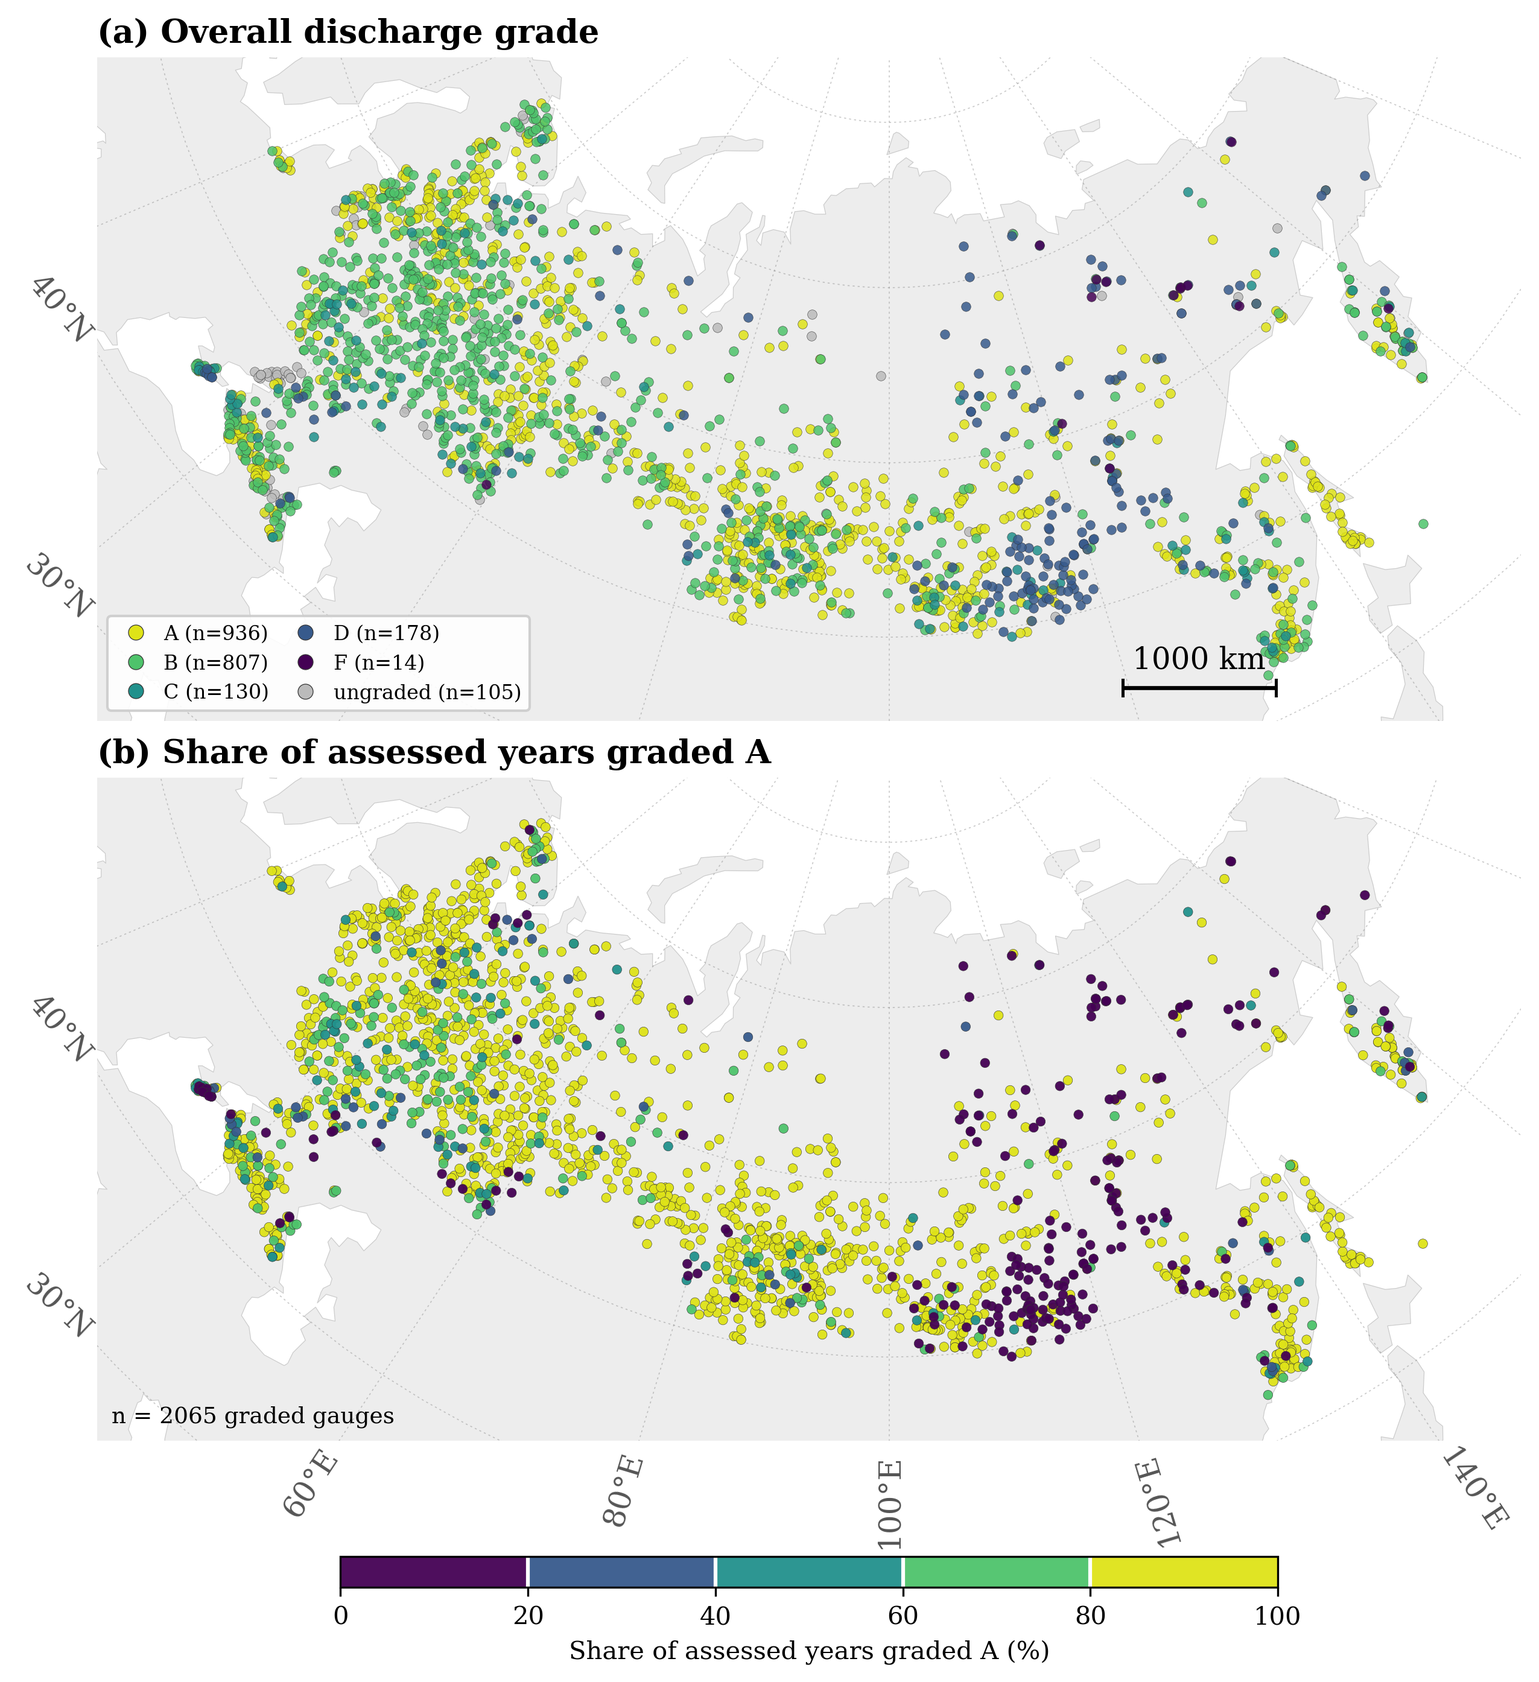
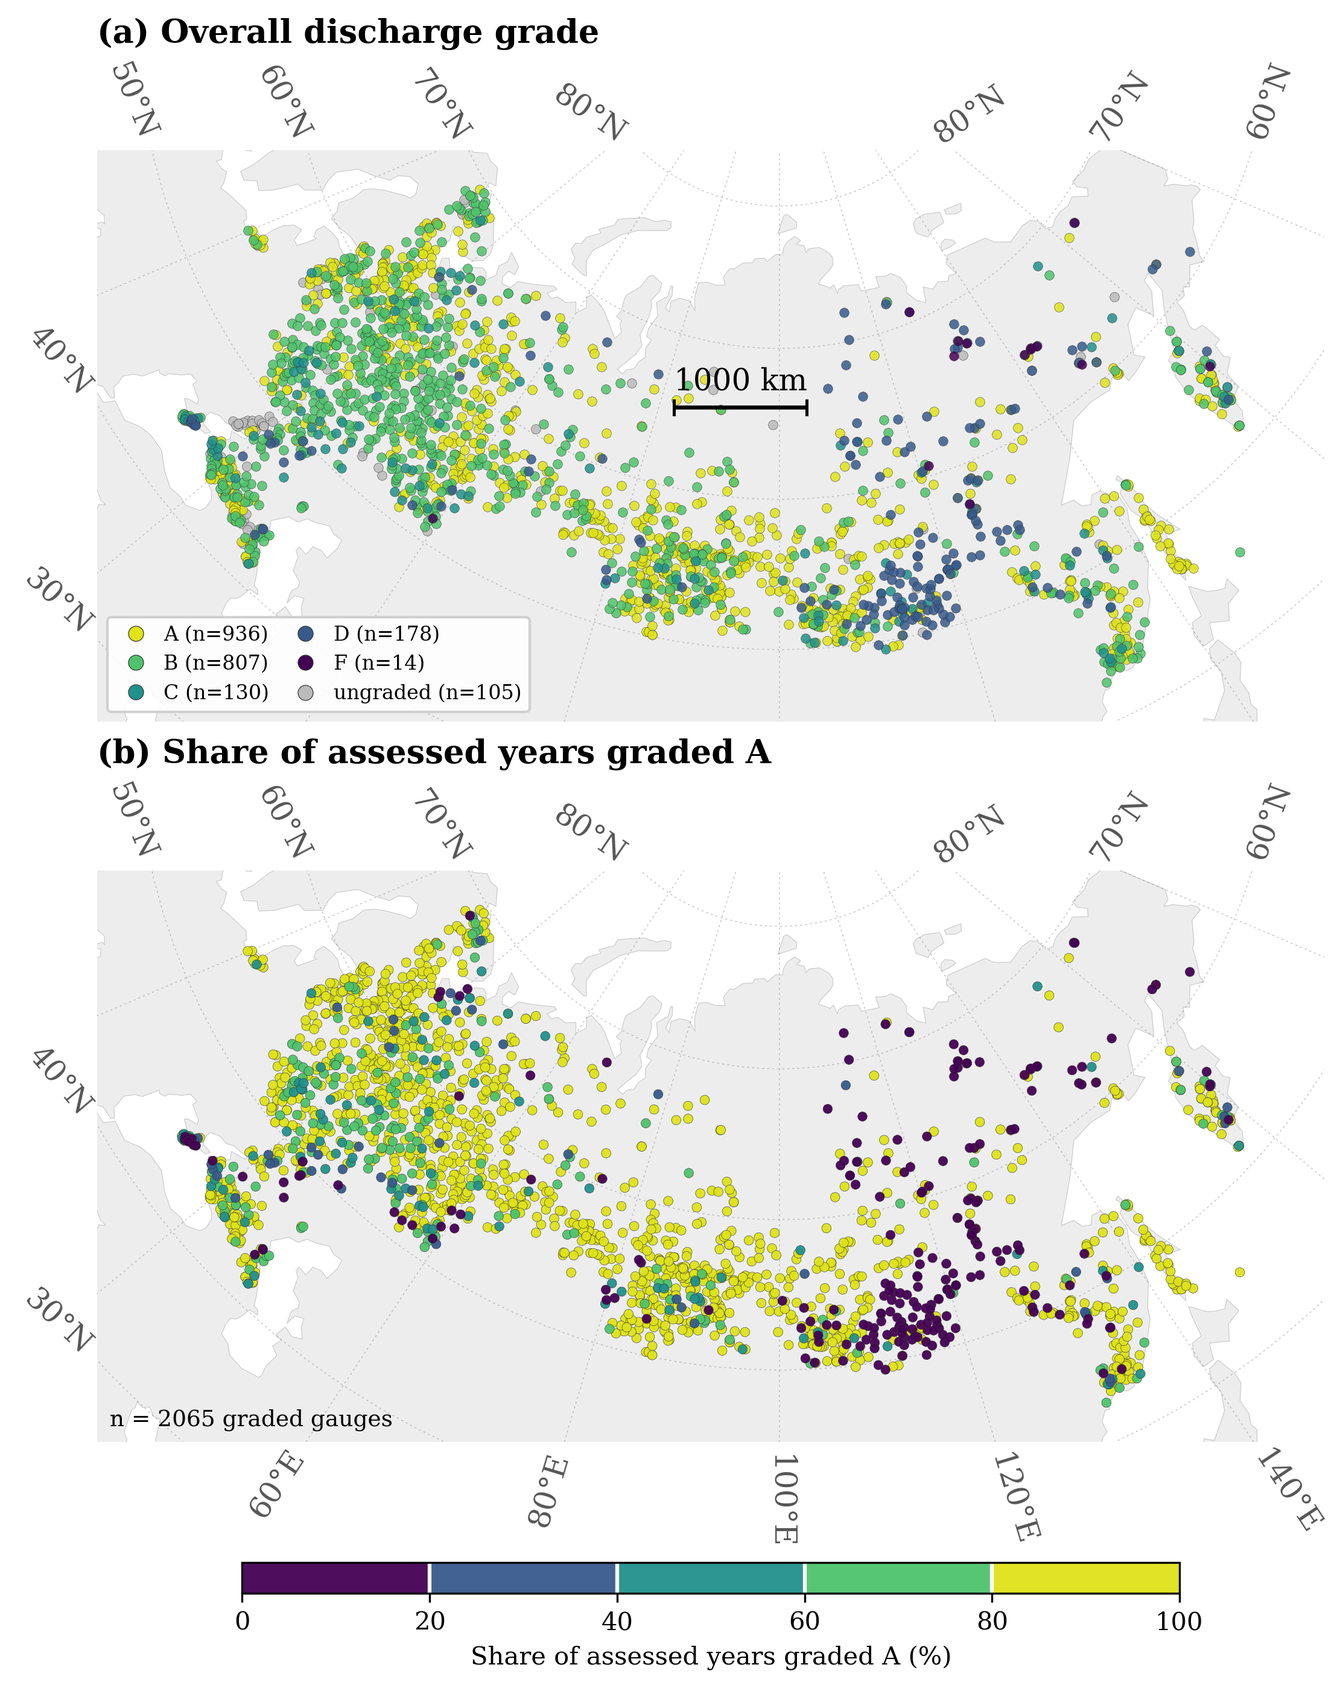
fix(figs): one-column signature maps + upright graticule labels; floor/ceil range gates
Submodule bump to f342c17 (round-9 re-score queue executed, all 11
items). plot_signature_maps.py restructured to four two-panel one-column
figures (fig_hydro_signatures_1..4, 14pt source fonts, relocated scale
bar); paper_maps.py normalises Gridliner label rotation to an upright
+/-90 deg band and restores in-range top latitude labels;
coldregion/gauge-reliability annotation fixes; verify_macros gains the
low_flow_dur zero-set lock and floor/ceil range gates (flo/cei helpers,
4 macros widened outward); grade_regime permafrost band labels
clarified; winter_flow_ratio pooling convention documented in the
signatures docstring.

Claude-Session: https://claude.ai/code/session_01E7YWKvkoaSFZxKDhty2sEV

diff --git a/scripts/plot_signature_maps.py b/scripts/plot_signature_maps.py
@@ -1,10 +1,14 @@
-"""Render the two hydrological-signature map figures (Section 5) from the release.
+"""Render the four hydrological-signature map figures (Section 5) from the release.
 
 Reads the released ``camels_ru_signatures.csv``, drops the small-basin anomalies flagged
 ``is_anomalous``, and maps eight key signatures for the remaining cleaned gauges on the
 shared Albers Equal-Area basemap. The bin edges and panel order follow the original
 notebook-02 maps; the gauge set is now the released cleaned subset, so the figures
 reproduce from the archive plus the gauge-point layer used by every other map script.
+
+Each figure holds two panels stacked vertically (one column) so every panel prints at
+full text width (ESSD editor round-N re-review: the previous 2x2-panel figures rendered
+too small to read).
 
 Usage:
     pixi run python scripts/plot_signature_maps.py            # test output (.tmp)
@@ -50,10 +54,12 @@ TEST_DIR = PROJECT_ROOT / ".tmp" / "cluster_diag"
 PANELS_1 = [
     ("q_mean", "Mean discharge (mm d$^{-1}$)", [0, 0.3, 0.6, 1.0, 1.5, 2.5, 5.0, 8.0]),
     ("q95", "Q95 (mm d$^{-1}$)", [0, 0.05, 0.1, 0.2, 0.35, 0.6, 1.0, 2.5]),
+]
+PANELS_2 = [
     ("q05", "Q05 (mm d$^{-1}$)", [0, 1, 3, 5, 7, 10, 15, 20]),
     ("baseflow_index", "Baseflow index", [0.2, 0.35, 0.45, 0.55, 0.65, 0.75, 0.85]),
 ]
-PANELS_2 = [
+PANELS_3 = [
     (
         "half_flow_date",
         # Not "DOY": under a calendar day-of-year reading the 120-270 classes look like
@@ -62,6 +68,8 @@ PANELS_2 = [
         [120, 150, 180, 200, 220, 240, 270],
     ),
     ("fdc_slope", "FDC slope", [0, 1.0, 1.5, 2.5, 4.0, 6.0, 10.0, 15.0]),
+]
+PANELS_4 = [
     ("high_flow_freq", "High-flow frequency (%)", [0, 10, 15, 20, 25, 30, 40, 50]),
     ("low_flow_freq", "Low-flow frequency (%)", [0, 2, 5, 10, 20, 35, 50, 70]),
 ]
@@ -81,7 +89,7 @@ def load_signatures() -> gpd.GeoDataFrame:
     if len(missing):
         raise RuntimeError(f"{len(missing)} signature gauges lack a point geometry: {list(missing)[:5]}")
 
-    cols = [c for c, _, _ in PANELS_1 + PANELS_2]
+    cols = [c for c, _, _ in PANELS_1 + PANELS_2 + PANELS_3 + PANELS_4]
     gdf = gauge.loc[sig.index].join(sig[cols])
     n_half = int(gdf["half_flow_date"].notna().sum())
     print(f"mapped gauges: {len(gdf)}; half-flow date available: {n_half}")
@@ -91,41 +99,45 @@ def load_signatures() -> gpd.GeoDataFrame:
 def build_figure(
     gdf: gpd.GeoDataFrame, panels: list[tuple[str, str, list[float]]], letters: str
 ) -> plt.Figure:
-    """Four-panel signature map for one panel set."""
+    """Two-panel signature map (stacked vertically) for one panel set."""
     ne_land = gpd.read_file(GEOM_DIR / "ne_land_clipped.gpkg")
     fig = continuous_multiplot(
         gdf=gdf,
         metrics=[c for c, _, _ in panels],
         titles=[f"({letter}) {title}" for letter, (_, title, _) in zip(letters, panels, strict=True)],
-        ncols=2,
+        ncols=1,
         panel_size=(8.0, 4.1),
         cmap_name="viridis",  # sequential: every panel is a strictly positive quantity
         bin_intervals={c: edges for c, _, edges in panels},
         marker_size=8,
         show_nan=True,
         background_gdf=ne_land,
-        # Font floor (ESSD editor pre-review): panels render at 0.96\textwidth from a
-        # 16x8.2in figure (~0.42x shrink), so 12/9pt source text would land at ~5/4pt in
-        # print. Bumped so both clear 7pt with margin (20 * 0.42 ~= 8.4pt); same figure
-        # scale, so the graticule labels below use the same 20pt.
-        title_fontsize=20,
-        colorbar_ticklabelsize=20,
+        # Font floor (ESSD editor round-N re-review): each figure is now 1 panel wide x 2
+        # rows (panel_size (8.0, 4.1) in -> figsize 8.0x8.2in) instead of 2x2, and prints at
+        # \textwidth ~= 12cm (4.72in) in the review-format (copernicus manuscript-mode) PDF,
+        # so the shrink factor is 4.72/8.0 ~= 0.59 (vs ~0.28 for the old 2x2 figure at
+        # 0.95\textwidth from a 16in-wide source, hence each panel prints ~2x wider now: a
+        # full \textwidth instead of half of 0.95\textwidth shared between two columns).
+        # 14pt source clears the 7pt print floor with margin (14 * 0.59 ~= 8.3pt) without
+        # printing oversized; same figure scale, so the graticule labels below use the same
+        # 14pt.
+        title_fontsize=14,
+        colorbar_ticklabelsize=14,
         graticule_labels=True,
-        graticule_label_size=20,
+        graticule_label_size=14,
     )
-    # Map-furniture consistency pass: one scale bar per figure (all 4 panels share one
-    # extent), placed on panel (a).
+    # Map-furniture consistency pass: one scale bar per figure (both panels share one
+    # extent), placed on panel (a), clear of the Far-East gauge cluster and the top-edge
+    # latitude labels (ESSD editor round-N re-review: the old lower-right placement sat on
+    # top of the Far-East data).
     from src.plots.paper_maps import add_scale_bar
 
-    # Lower-right, not the default lower-left: at fontsize=20 "1000 km" is ~2.7x the bar
-    # width and centred on it, so a left-edge bar spills into the rotated 30°N graticule
-    # label and outside the panel frame.
-    add_scale_bar(fig.axes[0], length_km=1000, loc=(0.82, 0.06), fontsize=20)
+    add_scale_bar(fig.axes[0], length_km=1000, loc=(0.47, 0.55), fontsize=14)
     return fig
 
 
 def main() -> None:
-    """Parse CLI args, build both figures, and write them out."""
+    """Parse CLI args, build all four figures, and write them out."""
     parser = argparse.ArgumentParser(description=__doc__)
     parser.add_argument(
         "--write",
@@ -138,8 +150,10 @@ def main() -> None:
     out_dirs = PAPER_DIRS if args.write else (TEST_DIR,)
     suffix = "" if args.write else "_test"
     for name, panels, letters in (
-        ("fig_hydro_signatures_1", PANELS_1, "abcd"),
-        ("fig_hydro_signatures_2", PANELS_2, "abcd"),
+        ("fig_hydro_signatures_1", PANELS_1, "ab"),
+        ("fig_hydro_signatures_2", PANELS_2, "ab"),
+        ("fig_hydro_signatures_3", PANELS_3, "ab"),
+        ("fig_hydro_signatures_4", PANELS_4, "ab"),
     ):
         fig = build_figure(gdf, panels, letters)
         # Save once and copy: repeated tight-bbox saves crop a few pixels differently,

diff --git a/src/plots/paper_maps.py b/src/plots/paper_maps.py
@@ -118,6 +118,57 @@ def _hide_frame(ax: Axes) -> None:
     ax.set_yticks([])
 
 
+def _normalize_label_rotation(gl) -> None:  # noqa: ANN001 - cartopy.mpl.gridliner.Gridliner
+    """Patch a Gridliner so its non-inline labels never render past +/-90 degrees.
+
+    Cartopy rotates each label to follow the local gridline tangent (``rotate_labels``,
+    on by default for non-rectangular projections such as this Albers conic): it picks
+    ``rotation`` and ``ha`` together from the raw tangent angle so the label always reads
+    outward from the map, using an internal +/-90-degree band offset by 25 degrees
+    (``self.offset_angle``, uncentered on purpose so a label just past vertical on one side
+    still gets flipped the same way as its neighbours on a *rectangular* grid). On this
+    conic that offset leaves a wedge of angles (past +90 up to +115, and symmetrically
+    below -90) where cartopy keeps the un-flipped pairing even though the result reads
+    upside-down/mirrored - seen on the meridian labels nearest the map's central longitude
+    (100/120E) and on the outer parallel labels once `_add_graticule` starts drawing those
+    too (e.g. 50N at its top-edge crossing).
+
+    The fix re-derives ``rotation`` and ``ha`` together from the same raw angle using a
+    symmetric +/-90 band instead, which keeps the label's outward-facing direction
+    unchanged (only *which* of the two equivalent (rotation, ha) pairs represents it
+    flips) - so it's applied by wrapping the private ``_get_text_specs`` method that
+    computes them, not by tweaking the finished label afterwards. Tweaking rotation alone
+    post hoc was tried and rejected: cartopy renders each label as soon as this method
+    returns to test it against the map frame and decide visibility, so a rotation-only
+    change either lands too late to affect that render (leaving the wrong pixels painted)
+    or, patched before the render, feeds a box cartopy doesn't expect and silently drops
+    labels that should be visible. Recomputing the matched (rotation, ha) pair keeps that
+    render self-consistent, so cartopy's own placement/visibility logic still applies
+    correctly to it. It has to be a patch on the instance, not a one-off fix, because
+    Gridliner recomputes every label - calling this method again - on each draw, e.g. once
+    for the on-screen draw and again at `savefig`.
+    """
+    original = gl._get_text_specs
+
+    def _upright_text_specs(angle, loc, xylabel):
+        kw = original(angle, loc, xylabel)
+        if kw.get("rotation_mode") == "anchor":
+            a = angle
+            if a > 180:
+                a -= 360
+            elif a <= -180:
+                a += 360
+            if -90 < a <= 90:
+                kw["ha"] = "left"
+                kw["rotation"] = a
+            else:
+                kw["ha"] = "right"
+                kw["rotation"] = (a - 180) if a > 90 else (a + 180)
+        return kw
+
+    gl._get_text_specs = _upright_text_specs
+
+
 def _add_graticule(
     ax: Axes,
     *,
@@ -131,9 +182,18 @@ def _add_graticule(
 
     Meridians every *lon_step* degrees and parallels every *lat_step* degrees
     are drawn as thin, light-grey dashed lines underneath the data layer.
-    Labels (bottom/left only) are rendered at *label_size* points when
-    *draw_labels* is True. Set *bottom_labels=False* for the upper panel(s) of
-    a vertically stacked figure sharing one extent, so longitude labels don't
+    Labels are rendered at *label_size* points when *draw_labels* is True, all
+    kept upright by `_normalize_label_rotation`: longitude along the bottom,
+    and latitude at whichever spine each parallel actually crosses. The
+    network's lowest one or two parallels (~30/40N) cross the left spine, as
+    on a typical mid-latitude map, but this Albers conic curves the higher
+    ones (50N and up) inward as their radius shrinks toward the pole, so they
+    exit through the top spine instead - enabling top labels only for
+    latitude (`top_labels="y"`, longitude stays bottom-only) picks those up
+    at their true crossing rather than leaving them unlabelled or falling
+    back to cartopy's interior ``geo_labels`` placement, which drifts into
+    the data. Set *bottom_labels=False* for the upper panel(s) of a
+    vertically stacked figure sharing one extent, so longitude labels don't
     collide with the next panel's title.
     """
     gl = ax.gridlines(
@@ -148,11 +208,16 @@ def _add_graticule(
         ylocs=list(range(30, 81, lat_step)),
     )
     if draw_labels:
-        gl.top_labels = False
+        gl.top_labels = "y"
         gl.right_labels = False
         gl.bottom_labels = bottom_labels
+        gl.left_labels = True
+        # The interior placement latitude labels fall back to when they cross neither the
+        # left nor top spine cleanly (see docstring); superseded by `top_labels="y"` above.
+        gl.geo_labels = False
         gl.xlabel_style = {"size": label_size, "color": "#555555"}
         gl.ylabel_style = {"size": label_size, "color": "#555555"}
+        _normalize_label_rotation(gl)
 
 
 def add_scale_bar(

diff --git a/scripts/verify_macros.py b/scripts/verify_macros.py
@@ -313,6 +313,15 @@ def check_water_balance_screen_macros(macros: dict[str, str]) -> None:
     check_macro(macros, "maxrunoffratio", float(flagged["runoff_ratio"].max()), "{:.1f}")
     check_macro(macros, "nwaterbalscreenall", float(sig["water_balance_screen"].sum()), "{:.0f}")
     check_macro(macros, "nwinterflowgauges", float(clean["winter_flow_ratio"].notna().sum()), "{:.0f}")
+    # low_flow_dur zero convention (Table 12): eventless valid years enter the mean as
+    # zeros, so exactly the low_flow_freq == 0 gauges sit at duration 0.
+    dur0 = clean["low_flow_dur"] == 0
+    check_macro(macros, "nlowflowdurzero", float(dur0.sum()), "{:.0f}")
+    check_val(
+        "low_flow_dur==0 set equals low_flow_freq==0 set",
+        "yes",
+        "yes" if bool((dur0 == (clean["low_flow_freq"] == 0)).all()) else "no",
+    )
     # Diagnosability of the runoff-ratio > 1 population (Sect. 4.1.2, domain m-6).
     boundaries = gpd.read_file(RELEASE / "camels_ru_boundaries.gpkg")
     boundaries["gauge_id"] = boundaries["gauge_id"].astype(str)
@@ -673,12 +682,22 @@ def check_release_range_gates(macros: dict[str, str]) -> None:
     def gate_range(name: str, lo: str, hi: str) -> None:
         check_val(name, norm(name), f"{lo} to {hi}")
 
+    # Every declared bound must CONTAIN the released values (floor the minimum, ceil the
+    # maximum): a range filter built from Table 3 must never clip real data. Plain
+    # rounding shipped four inward-rounded cells (round-9 consistency N1).
+    def flo(x: float, decimals: int = 0) -> str:
+        f = 10.0**decimals
+        return f"{np.floor(float(x) * f) / f:.{decimals}f}"
+
+    def cei(x: float, decimals: int = 0) -> str:
+        f = 10.0**decimals
+        return f"{np.ceil(float(x) * f) / f:.{decimals}f}"
+
     with xr.open_dataset(RELEASE / "camels_ru_discharge.nc") as ds:
         q3 = ds["discharge_m3s"]
         qm = ds["discharge_mm"]
-        gate_range("rngqvol", "0", f"{round(float(q3.max()) / 1000) * 1000:.0f}")
-        # Ceil, not round: the declared maximum must not clip real data (66,732.20 -> 66,733).
-        gate_range("rngqmm", "0", f"{np.ceil(float(qm.max())):.0f}")
+        gate_range("rngqvol", "0", f"{np.ceil(float(q3.max()) / 1000) * 1000:.0f}")
+        gate_range("rngqmm", "0", cei(qm.max()))
         check_macro(macros, "nallmissingdischarge", float(q3.isnull().all("time").sum()), "{:.0f}")
 
     with xr.open_dataset(RELEASE / "camels_ru_forcing.nc") as fx:
@@ -687,11 +706,11 @@ def check_release_range_gates(macros: dict[str, str]) -> None:
             ("rngpera", "precip_era5"),
             ("rngpgpcp", "precip_gpcp"),
         ):
-            gate_range(name, f"{float(fx[var].min()):.0f}", f"{float(fx[var].max()):.0f}")
+            gate_range(name, flo(fx[var].min()), cei(fx[var].max()))
         for name, var in (("rngtmean", "temp_mean"), ("rngtmin", "temp_min"), ("rngtmax", "temp_max")):
-            gate_range(name, f"{float(fx[var].min()):.0f}", f"{float(fx[var].max()):.0f}")
+            gate_range(name, flo(fx[var].min()), cei(fx[var].max()))
         pet = fx["pet"]
-        gate_range("rngpet", f"{float(pet.min()):.2f}", f"{float(pet.max()):.0f}")
+        gate_range("rngpet", flo(pet.min(), 2), cei(pet.max()))
         check_macro(macros, "petminnum", float(pet.min()), "{:.2f}")
         neg_pct = 100.0 * float((pet < 0).sum()) / int(pet.notnull().sum())
         check_macro(macros, "petnegpct", neg_pct, "{:.1f}")
@@ -725,9 +744,9 @@ def check_release_range_gates(macros: dict[str, str]) -> None:
         cm = wl["water_level_cm"]
         mbs = wl["water_level_mbs"]
         zero = wl["gauge_zero_m"]
-        gate_range("rngwlcm", f"{float(cm.min()):.1f}", f"{round(float(cm.max()) / 100) * 100:.0f}")
-        gate_range("rngwlmbs", f"{float(mbs.min()):.0f}", f"{float(mbs.max()):.0f}")
-        gate_range("rngzero", f"{float(zero.min()):.0f}", f"{float(zero.max()):.0f}")
+        gate_range("rngwlcm", flo(cm.min(), 1), f"{np.ceil(float(cm.max()) / 100) * 100:.0f}")
+        gate_range("rngwlmbs", flo(mbs.min()), cei(mbs.max()))
+        gate_range("rngzero", flo(zero.min()), cei(zero.max()))
 
     boundaries = gpd.read_file(RELEASE / "camels_ru_boundaries.gpkg")
     err = boundaries["area_diff_perc"].dropna()

diff --git a/scripts/create_paper_signatures.py b/scripts/create_paper_signatures.py
@@ -18,8 +18,9 @@ Conventions (2026-08-23 revision, science-review Domain Expert M-1/M-5):
 - Water-balance ratios (runoff_ratio Q/P, aridity_index PET/P, evaporative_index (P-Q)/P)
   are computed per valid year over the days where discharge is observed, then averaged.
   MSWEP is the primary precipitation; `_era5` columns give the ERA5-Land variants.
-- winter_flow_ratio: mean Jan-Mar flow / mean annual flow, on observed days over the
-  whole record. A Lyne-Hollick BFI with alpha in [0.9, 0.98] has a 10-50 day recession
+- winter_flow_ratio: mean Jan-Mar flow / mean annual flow, on observed days pooled
+  over all complete hydrological years (2009-2023), valid or not.
+  A Lyne-Hollick BFI with alpha in [0.9, 0.98] has a 10-50 day recession
   constant and so reads a multi-week snowmelt recession as baseflow; this measures
   cold-season yield directly and declines monotonically with permafrost extent, as the
   BFI does not.

diff --git a/scripts/plot_gauge_reliability.py b/scripts/plot_gauge_reliability.py
@@ -271,11 +271,12 @@ def build_figure(gauge: gpd.GeoDataFrame) -> plt.Figure:
     _panel_grades(axes[0], gauge, data_crs)
     _panel_reliability(fig, axes[1], gauge, data_crs)
     # One scale bar for the figure (both panels share the same extent) rather than one per
-    # panel, to keep it unobtrusive. Lower-right corner: panel (a)'s grade legend already
-    # occupies lower-left.
+    # panel, to keep it unobtrusive. Placed in the empty interior of northern Siberia: the
+    # lower-right corner (the previous placement) sits on the dense Far-East gauge cluster,
+    # and panel (a)'s grade legend already occupies lower-left.
     from src.plots.paper_maps import add_scale_bar
 
-    add_scale_bar(axes[0], length_km=1000, loc=(0.72, 0.05), fontsize=12)
+    add_scale_bar(axes[0], length_km=1000, loc=(0.47, 0.55), fontsize=12)
     return fig
 
 

diff --git a/scripts/plot_coldregion_gradient.py b/scripts/plot_coldregion_gradient.py
@@ -243,7 +243,14 @@ def main() -> None:
         # by diverging away from the shared zone between them, not just alternating side.
         dy = 20 if above else -20
         ha = "left" if row["center"] < 5 else "center"
-        xytext = (4, dy) if ha == "left" else (0, dy)
+        dx = 0
+        if i == 2:
+            # Bin 0's label ("776", left-anchored, above) is wide enough at floor-clearing
+            # size that it still reached into bin 2's own "above" label ("83", centered 15
+            # data-units away) - pushed further up and right, clear of that reach.
+            dy = 36
+            dx = 8
+        xytext = (4, dy) if ha == "left" else (dx, dy)
         ax_b.annotate(
             f"{int(row['n'])}",
             (row["center"], row["median"]),

diff --git a/scripts/grade_regime_stratification.py b/scripts/grade_regime_stratification.py
@@ -44,7 +44,7 @@ BANDS: dict[str, tuple[str, list[float], list[str]]] = {
     "permafrost": (
         "prm_pc_use",
         [-0.001, 0, 20, 80, 100],
-        ["0", "0 to 20", "20 to 80", r"$>$ 80"],
+        ["0", "$>$ 0 to 20", "20 to 80", r"$>$ 80"],
     ),
 }
 
